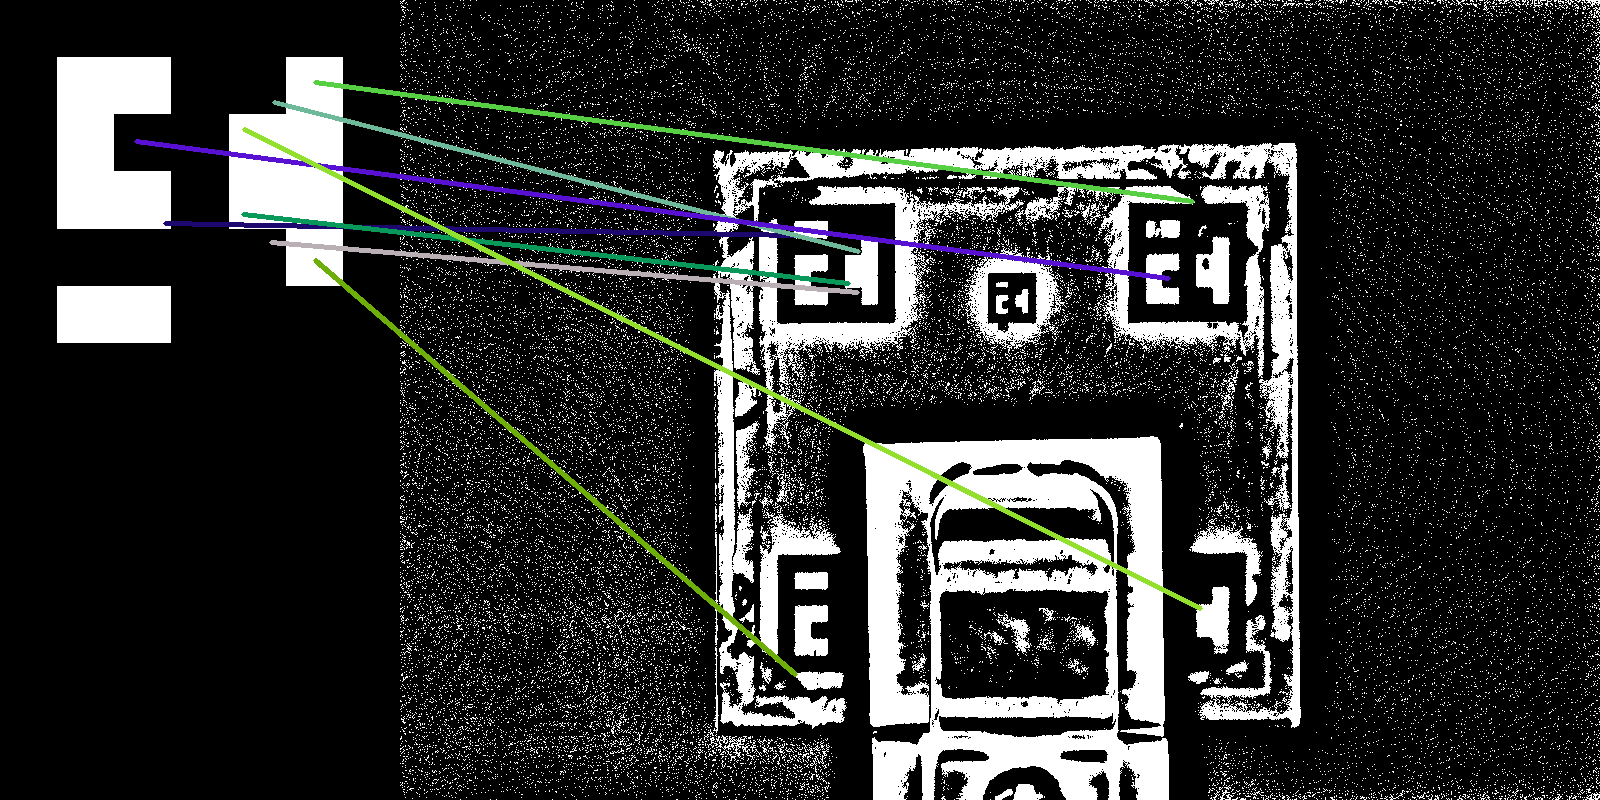
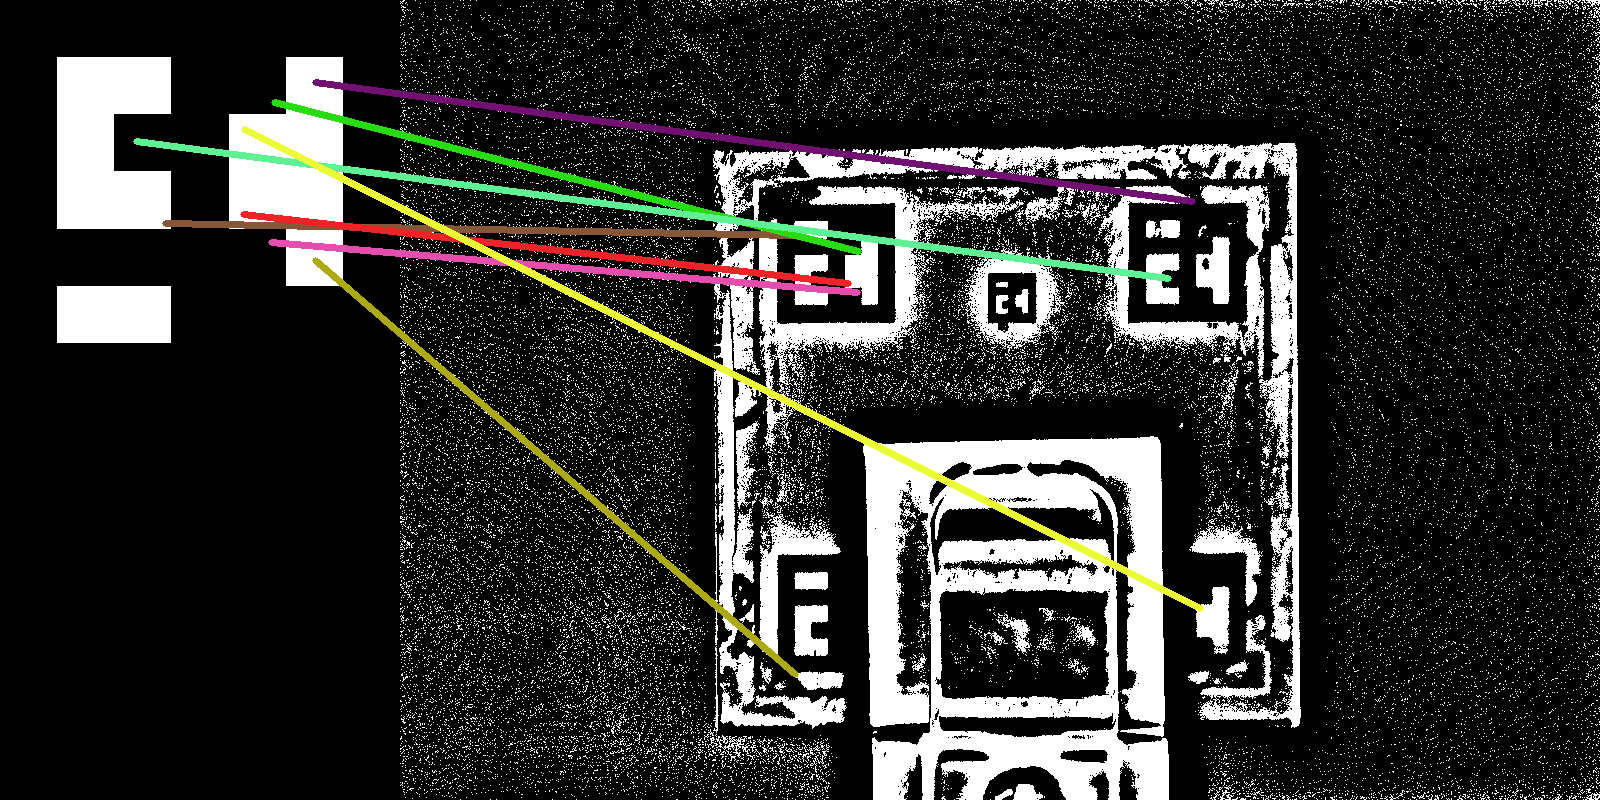
Make sift matches even thicker

diff --git a/thesis/thesis.tex b/thesis/thesis.tex
@@ -603,7 +603,7 @@ There are many possible variations of this approach, such as also using the magn
 \subsection{Feature Matching}
 
 \begin{figure} % TODO: Make lines thicker?
-  \caption{\ac{SIFT} matches between a \ac{ArUco} marker image and the thresholded test image.}
+  \caption{\ac{SIFT} matches between the \ac{ArUco} marker image and the thresholded test image visualized as randomly colored lines.}
   \includegraphics[width=0.65\textwidth]{image/classic_sift_matches}
   \label{fig:classic_sift_matches}
 \end{figure}

diff --git a/prototype-cv/sift/testSift.py b/prototype-cv/sift/testSift.py
@@ -66,7 +66,7 @@ for readable_good_match in readable_good_matches:
              (int(readable_good_match[0][0]), int(readable_good_match[0][1])), 
              (int(readable_good_match[1][0] + img1.shape[1]), int(readable_good_match[1][1])), 
              (random.randint(0, 255), random.randint(0, 255), random.randint(0, 255)), 
-             4)
+             6)
 # img3 = cv2.drawMatches(img1, kpl, final_img, kp2, matches[:int(n/2)], final_img, flags=2)
 
 print_img = img3
